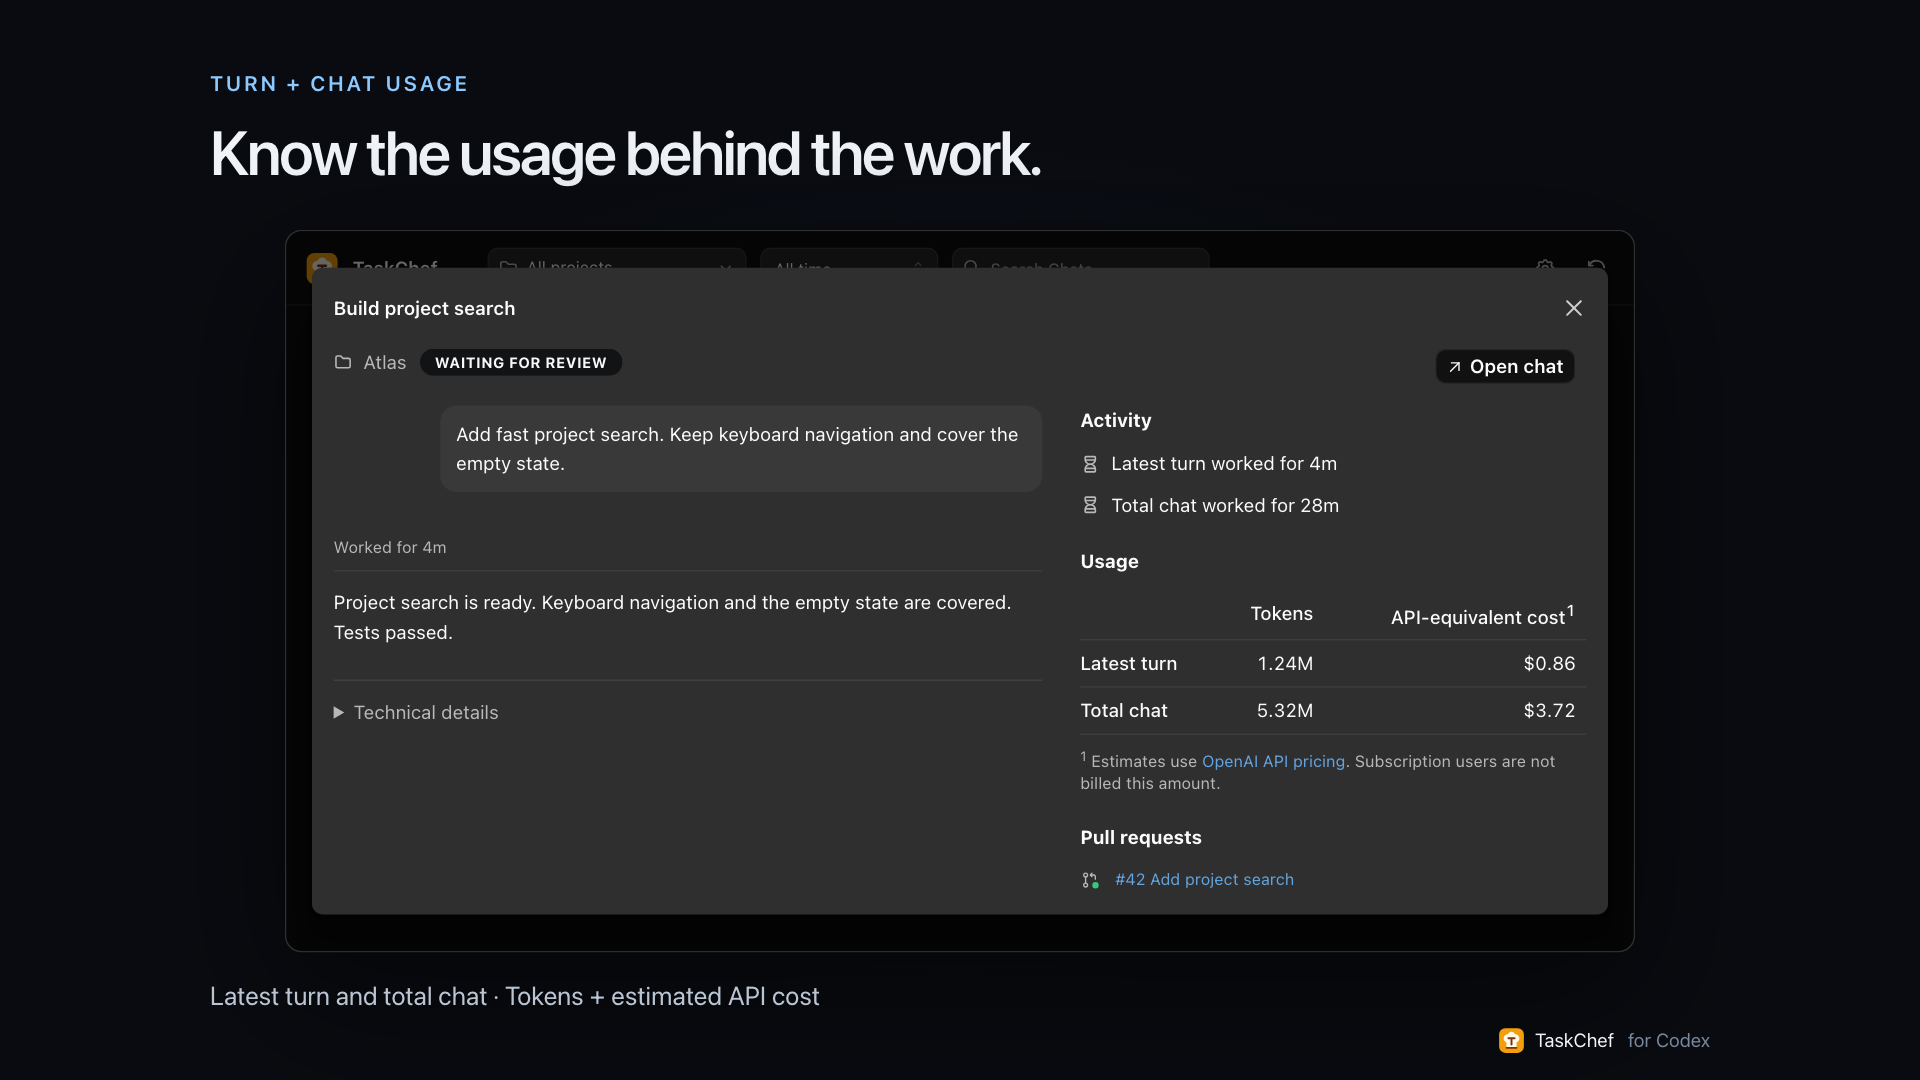
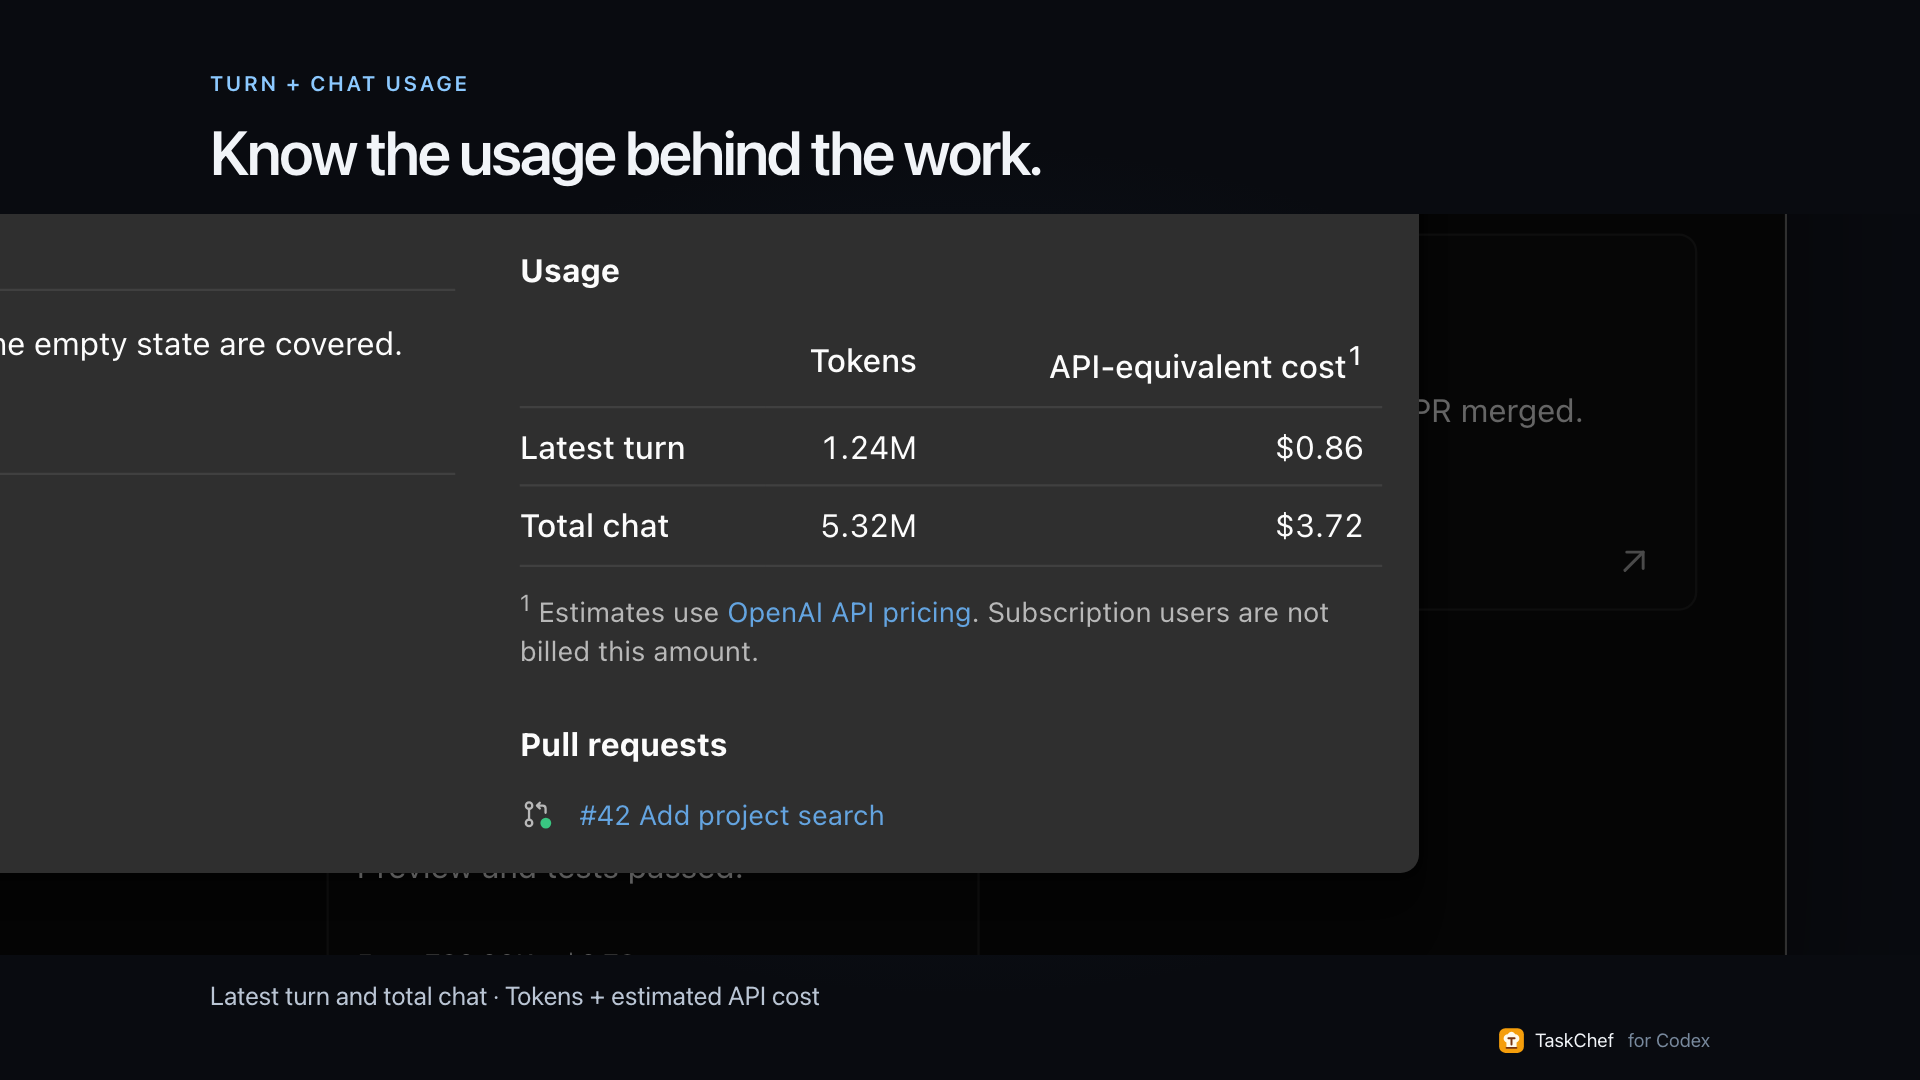
chore(video): add busy board and camera close-ups

diff --git a/video/demo.ts b/video/demo.ts
@@ -10,6 +10,7 @@ export const PROJECTS = [
   { value: 'studio', label: 'Studio' },
 ];
 export const LANES: { status: TaskStatus; label: string; emptyMessage: string }[] = [
+  { status: 'scheduled', label: 'Scheduled', emptyMessage: 'No scheduled chats' },
   { status: 'working', label: 'Running', emptyMessage: 'No chats running' },
   { status: 'needs_input', label: 'Waiting for review', emptyMessage: 'No chats waiting for review' },
   { status: 'completed', label: 'Done', emptyMessage: 'No completed chats' },
@@ -28,7 +29,9 @@ function chat(id: number, title: string, project: string, status: TaskStatus, pr
     createdAt: updatedAt, updatedAt, status, summary: response,
     lastResult: null, latestTurn: null,
     promptText: prompt, promptExcerpt: prompt, replyText: response, replyExcerpt: response,
-    inputSource: 'ordinary',
+    inputSource: status === 'scheduled' ? 'scheduled' : 'ordinary',
+    scheduled: status === 'scheduled',
+    nextRunAt: status === 'scheduled' ? new Date(DEMO_NOW + (id === 8 ? 4 : 1) * 24 * 60 * 60_000).toISOString() : null,
     observed: { archive: false, source: 'vscode', lastTurnEvent: status === 'working' ? 'inProgress' : 'completed', lastTurnEventAt: updatedAt, latestTurnDurationMs: 4 * 60_000, recordedChatDurationMs: 28 * 60_000, recentFileActivity: status === 'working' },
     turnUsage: latest, sessionUsage: { latest, total: usage(latest.tokens.total_tokens * 4, latest.costUsd * 4), subagents: 0, pricingDate: '2026-01-01' },
   };
@@ -44,8 +47,13 @@ export function demoTasks(phase: Phase, project = ''): Task[] {
   hero.detailPullRequests = hero.pullRequests;
   const tasks = [hero,
     chat(2, 'Improve checkout validation', 'beacon', 'working', 'Check the payment form and add clear validation for incomplete addresses.', 'Checkout validation is ready for review.'),
+    chat(3, 'Improve keyboard navigation', 'atlas', 'working', 'Add keyboard shortcuts for switching projects.', 'Project shortcuts are ready for review.'),
+    chat(4, 'Refine payment errors', 'beacon', 'needs_input', 'Make payment errors easier to resolve.', 'Payment errors now explain how to retry. Tests passed.'),
     chat(5, 'Update onboarding', 'studio', 'needs_input', 'Simplify the first project setup.', 'The new onboarding flow is ready. Preview and tests passed.'),
     chat(6, 'Fix notification layout', 'atlas', 'completed', 'Fix the notification layout on small screens.', 'Notification layout fixed. PR merged.'),
+    chat(7, 'Daily regression sweep', 'atlas', 'scheduled', 'Check the main flows each morning.', 'The last regression sweep passed. Next run is scheduled.'),
+    chat(8, 'Weekly dependency review', 'beacon', 'scheduled', 'Review dependency updates every Monday.', 'The dependency report is up to date. Next run is scheduled.'),
+    chat(9, 'Add export presets', 'studio', 'completed', 'Add portrait and landscape export presets.', 'Export presets added. PR merged.'),
   ];
   return project ? tasks.filter(task => task.project.id === project) : tasks;
 }

diff --git a/video/Frame.tsx b/video/Frame.tsx
@@ -29,19 +29,22 @@ export function FilmFrame({ eyebrow, title, children }: { eyebrow: string; title
   </AbsoluteFill>;
 }
 
-export function ProductBoard({ phase, project = '', moveProgress, children, style }: { phase: Phase; project?: string; moveProgress?: number; children?: ReactNode; style?: CSSProperties }) {
+export function ProductBoard({ phase, project = '', moveProgress, children, highlightProject = false }: { phase: Phase; project?: string; moveProgress?: number; children?: ReactNode; highlightProject?: boolean }) {
   const frame = useCurrentFrame();
   const tasks = demoTasks(phase, project);
   // Fix wall-clock labels and suppress the product's real-time FLIP animation.
   // The same destination card moves by a frame-driven transform in this film.
   const transform = moveProgress == null ? 'none' : `translate(${-312 * (1 - moveProgress)}px, ${-10 * Math.sin(Math.PI * moveProgress)}px)`;
-  return <div className="film-product" style={style}>
+  return <div className={`film-product${highlightProject ? " film-product-highlight-project" : ""}`}>
     <style>{`
       .film-product .taskchef-board-card { transform: none !important; }
       .film-product [data-chat-id="${HERO_ID}"] { transform: ${transform} !important; position: relative; z-index: 5; ${moveProgress != null && moveProgress < 1 ? 'box-shadow: 0 16px 35px #0008; border-color: #75b8ff;' : ''} }
-      ${moveProgress != null ? phase === 'review'
-        ? `.film-product [data-chat-id="00000000-0000-7000-8000-000000000002"] { transform: translateY(${176 * (1 - moveProgress)}px) !important; } .film-product [data-chat-id="00000000-0000-7000-8000-000000000005"] { transform: translateY(${-176 * (1 - moveProgress)}px) !important; }`
-        : `.film-product [data-chat-id="00000000-0000-7000-8000-000000000005"] { transform: translateY(${176 * (1 - moveProgress)}px) !important; } .film-product [data-chat-id="00000000-0000-7000-8000-000000000006"] { transform: translateY(${-176 * (1 - moveProgress)}px) !important; }` : ''}
+      ${moveProgress == null ? '' : tasks.filter(task => task.id !== HERO_ID).map(task => {
+        const offset = phase === 'review'
+          ? task.status === 'working' ? 176 : task.status === 'needs_input' ? -176 : 0
+          : task.status === 'needs_input' ? 176 : task.status === 'completed' ? -176 : 0;
+        return `.film-product [data-chat-id="${task.id}"] { transform: translateY(${offset * (1 - moveProgress)}px) !important; }`;
+      }).join('\n')}
       .film-product [aria-label^="Elapsed time"] .taskchef-time-label { font-size: 0; }
       .film-product [aria-label^="Elapsed time"] .taskchef-time-label::after { content: "4m"; font-size: 12px; }
       ${tasks.filter(task => task.status === 'working').map(task => `.film-product [data-chat-id="${task.id}"] .taskchef-card-turn-usage { font-size: 0; } .film-product [data-chat-id="${task.id}"] .taskchef-card-turn-usage::after { content: ${JSON.stringify(turnUsageLabel(task.turnUsage!))}; font-size: 12px; }`).join('\n')}

diff --git a/video/film.css b/video/film.css
@@ -4,8 +4,10 @@
 .film-heading { position: absolute; top: 67px; left: 210px; }
 .film-eyebrow { color: #8cc9ff; font-size: 21px; letter-spacing: 3px; font-weight: 600; }
 .film-heading h1 { margin: 16px 0 0; font-size: 62px; line-height: 1.15; letter-spacing: -2.4px; font-weight: 570; }
-.film-product { position: absolute; left: 210px; top: 252px; width: 1000px; height: 460px; transform: scale(1.5); transform-origin: top left; border: 1px solid #ffffff24; border-radius: 12px; background: var(--taskchef-page); box-shadow: 0 32px 100px #0008; isolation: isolate; color: var(--taskchef-text); color-scheme: dark; }
-.film-product .taskchef-app-shell { min-height: 460px; border-radius: 12px; }
+.film-camera-window { position: absolute; left: 0; top: 214px; width: 1920px; height: 741px; overflow: hidden; }
+.film-camera-stage { position: absolute; width: 1280px; height: 648px; transform-origin: top left; pointer-events: none; }
+.film-product { position: relative; width: 1280px; height: 648px; border: 1px solid #ffffff24; border-radius: 12px; background: var(--taskchef-page); box-shadow: 0 32px 100px #0008; isolation: isolate; color: var(--taskchef-text); color-scheme: dark; }
+.film-product .taskchef-app-shell { min-height: 646px; border-radius: 12px; }
 .film-product .taskchef-app-main { padding: 12px; }
 .film-product .taskchef-board { min-height: 374px; overflow: visible; }
 .film-product .taskchef-board-lane { cursor: default; }
@@ -23,7 +25,7 @@
 .film-signature { position: absolute; right: 210px; bottom: 25px; display: flex; align-items: center; gap: 10px; font-size: 19px; }
 .film-signature img { width: 27px; height: 27px; }
 .film-signature span { color: #78899d; margin-left: 4px; }
-.film-filter-ring { pointer-events: none; position: absolute; left: 431px; top: 267px; width: 292px; height: 50px; border: 2px solid #8cc9ff; border-radius: 8px; box-shadow: 0 0 24px #75b8ff30; }
+.film-product-highlight-project .next-project-trigger { outline: 2px solid #8cc9ff; outline-offset: 2px; box-shadow: 0 0 24px #75b8ff30; }
 .film-closing { text-align: center; display: flex; justify-content: center; align-items: center; }
 .film-closing img { height: 96px; width: 96px; }
 .film-closing h1 { font-size: 102px; letter-spacing: -5px; font-weight: 550; margin: 24px 0; }

diff --git a/video/Usage.tsx b/video/Usage.tsx
@@ -1,13 +1,20 @@
 import { NextTaskDetail } from '../src/mcp-app/react/NextTaskDetail';
 import { FilmFrame, ProductBoard } from './Frame';
+import { BoardCamera } from './Camera';
 import { demoTasks } from './demo';
 const noop = () => {};
 export function Usage() {
   return <FilmFrame eyebrow="TURN + CHAT USAGE" title="Know the usage behind the work.">
-    <ProductBoard phase="review" style={{ left: 285, top: 230, height: 535, transform: "scale(1.35)" }}>
-      <style>{`.film-product .mantine-Modal-content { max-height: 505px; }`}</style>
-      <NextTaskDetail task={demoTasks('review')[0]} opened busy={false} error={null} onClose={noop} onOpenCodex={noop} />
-    </ProductBoard>
+    <BoardCamera poses={[
+      { at: 0, x: 230, y: 0, scale: 1.14 }, { at: 1.3, x: 230, y: 0, scale: 1.14 },
+      { at: 2.6, x: -1157, y: -636, scale: 2.3 }, { at: 7.2, x: -1157, y: -636, scale: 2.3 },
+      { at: 8.7, x: 230, y: 0, scale: 1.14 },
+    ]}>
+      <ProductBoard phase="review">
+        <style>{`.film-product .mantine-Modal-content { max-height: 505px; }`}</style>
+        <NextTaskDetail task={demoTasks('review')[0]} opened busy={false} error={null} onClose={noop} onOpenCodex={noop} />
+      </ProductBoard>
+    </BoardCamera>
     <div className="film-bottom-line">Latest turn and total chat · Tokens + estimated API cost</div>
   </FilmFrame>;
 }

diff --git a/video/Review.tsx b/video/Review.tsx
@@ -1,12 +1,17 @@
 import { Easing, interpolate, useCurrentFrame, useVideoConfig } from 'remotion';
 import { FilmFrame, ProductBoard } from './Frame';
+import { BoardCamera } from './Camera';
 export function Review() {
   const frame = useCurrentFrame();
   const { fps } = useVideoConfig();
   const finished = frame >= 5 * fps;
   const progress = interpolate(frame, [5 * fps, 6 * fps], [0, 1], { extrapolateLeft: 'clamp', extrapolateRight: 'clamp', easing: Easing.bezier(.22, 1, .36, 1) });
   return <FilmFrame eyebrow="FROM RUNNING TO REVIEW" title={finished ? 'Ready for your review.' : 'See what is running.'}>
-    <ProductBoard phase={finished ? 'review' : 'running'} moveProgress={finished ? progress : undefined} />
+    <BoardCamera poses={[
+      { at: 0, x: 230, y: 0, scale: 1.14 }, { at: 1, x: 230, y: 0, scale: 1.14 },
+      { at: 2.5, x: -575, y: -140, scale: 2.4 }, { at: 7.5, x: -575, y: -140, scale: 2.4 },
+      { at: 9, x: 230, y: 0, scale: 1.14 },
+    ]}><ProductBoard phase={finished ? 'review' : 'running'} moveProgress={finished ? progress : undefined} /></BoardCamera>
     <div className="film-bottom-line">{finished ? 'Run finished → Waiting for review' : 'Your Codex chats, across projects.'}</div>
   </FilmFrame>;
 }

diff --git a/video/Merge.tsx b/video/Merge.tsx
@@ -1,12 +1,17 @@
 import { Easing, interpolate, useCurrentFrame, useVideoConfig } from 'remotion';
 import { FilmFrame, ProductBoard } from './Frame';
+import { BoardCamera } from './Camera';
 export function Merge() {
   const frame = useCurrentFrame();
   const { fps } = useVideoConfig();
   const merged = frame >= 3 * fps;
   const progress = interpolate(frame, [3 * fps, 4 * fps], [0, 1], { extrapolateLeft: 'clamp', extrapolateRight: 'clamp', easing: Easing.bezier(.22, 1, .36, 1) });
   return <FilmFrame eyebrow="PR MERGED" title={merged ? 'Merged. Moved to Done.' : 'Review it. Merge it.'}>
-    <ProductBoard phase={merged ? 'merged' : 'review'} moveProgress={merged ? progress : undefined} />
+    <BoardCamera poses={[
+      { at: 0, x: 230, y: 0, scale: 1.14 }, { at: .8, x: 230, y: 0, scale: 1.14 },
+      { at: 1.8, x: -1325, y: -140, scale: 2.4 }, { at: 6, x: -1325, y: -140, scale: 2.4 },
+      { at: 7.2, x: 230, y: 0, scale: 1.14 },
+    ]}><ProductBoard phase={merged ? 'merged' : 'review'} moveProgress={merged ? progress : undefined} /></BoardCamera>
     <div className="film-bottom-line">{merged ? 'Latest turn PR merged → Done' : 'Build project search · PR #42 · Checks passed'}</div>
   </FilmFrame>;
 }

diff --git a/video/Focus.tsx b/video/Focus.tsx
@@ -1,12 +1,16 @@
 import { useCurrentFrame, useVideoConfig } from 'remotion';
 import { FilmFrame, ProductBoard } from './Frame';
+import { BoardCamera } from './Camera';
 export function Focus() {
   const frame = useCurrentFrame();
   const { fps } = useVideoConfig();
   const focused = frame >= 2 * fps;
   return <FilmFrame eyebrow="PROJECT FILTERING" title="One project. Your full attention.">
-    <ProductBoard phase="merged" project={focused ? 'atlas' : ''} />
-    <div className="film-filter-ring" style={{ opacity: frame >= fps && frame < 3 * fps ? 1 : 0 }} />
+    <BoardCamera poses={[
+      { at: 0, x: 230, y: 0, scale: 1.14 }, { at: .6, x: 230, y: 0, scale: 1.14 },
+      { at: 1.4, x: 3, y: 0, scale: 2.8 }, { at: 2.7, x: 3, y: 0, scale: 2.8 },
+      { at: 4, x: 230, y: 0, scale: 1.14 },
+    ]}><ProductBoard phase="merged" project={focused ? 'atlas' : ''} highlightProject={frame >= fps && frame < 3 * fps} /></BoardCamera>
     <div className="film-bottom-line">{focused ? 'Atlas · Only the chats for this project.' : 'Choose the project you want to focus on.'}</div>
   </FilmFrame>;
 }

diff --git a/video/Opening.tsx b/video/Opening.tsx
@@ -1,10 +1,13 @@
 import { interpolate, useCurrentFrame, useVideoConfig } from 'remotion';
 import { FilmFrame, ProductBoard } from './Frame';
+import { BoardCamera } from './Camera';
 export function Opening() {
   const frame = useCurrentFrame();
   const { fps } = useVideoConfig();
   return <FilmFrame eyebrow="PARALLEL AI WORK" title="More projects. More moving parts.">
-    <div style={{ opacity: interpolate(frame, [.5 * fps, 1.4 * fps], [0, 1], { extrapolateLeft: 'clamp', extrapolateRight: 'clamp' }), translate: `0 ${interpolate(frame, [0, 1.4 * fps], [40, 0], { extrapolateRight: 'clamp' })}px` }}><ProductBoard phase="running" /></div>
+    <BoardCamera poses={[{ at: 0, x: 282, y: 24, scale: 1.06 }, { at: 1.8, x: 230, y: 0, scale: 1.14 }]}>
+      <div style={{ opacity: interpolate(frame, [.3 * fps, 1.2 * fps], [0, 1], { extrapolateLeft: 'clamp', extrapolateRight: 'clamp' }) }}><ProductBoard phase="running" /></div>
+    </BoardCamera>
     <div className="film-bottom-line">Keep parallel AI work in view.</div>
   </FilmFrame>;
 }

diff --git a/video/Camera.tsx b/video/Camera.tsx
@@ -1,0 +1,17 @@
+import type { ReactNode } from 'react';
+import { Easing, interpolate, useCurrentFrame, useVideoConfig } from 'remotion';
+
+type Pose = { at: number; x: number; y: number; scale: number };
+export function BoardCamera({ poses, children }: { poses: Pose[]; children: ReactNode }) {
+  const frame = useCurrentFrame();
+  const { fps } = useVideoConfig();
+  const times = poses.map(pose => pose.at * fps);
+  const options = { extrapolateLeft: 'clamp', extrapolateRight: 'clamp', easing: Easing.bezier(.4, 0, .2, 1) } as const;
+  return <div className="film-camera-window">
+    <div className="film-camera-stage" inert style={{
+      left: interpolate(frame, times, poses.map(pose => pose.x), options),
+      top: interpolate(frame, times, poses.map(pose => pose.y), options),
+      transform: `scale(${interpolate(frame, times, poses.map(pose => pose.scale), options)})`,
+    }}>{children}</div>
+  </div>;
+}

diff --git a/docs/launch/video-script.md b/docs/launch/video-script.md
@@ -9,13 +9,13 @@ styles, and Codex dark palette. All chats, projects, usage, and PRs are syntheti
 
 | Time | Narration | Picture and on-screen text |
 | --- | --- | --- |
-| 00–06 | AI lets you work on several projects at once. Keeping track gets harder. | The actual board fades in with chats from Atlas, Beacon, and Studio. **More projects. More moving parts.** |
-| 06–11 | TaskChef puts your Codex chats on one board. | Hold the three columns: Running, Waiting for review, Done. **See what is running.** The main chat is “Build project search” in Running. |
-| 11–17 | When a run finishes, its card moves to Waiting for review. | Animate the same card across the board. Its prompt becomes its result. Neighboring cards make room. **Ready for your review.** |
-| 17–27 | Check tokens and estimated API cost for the latest turn—and the whole chat. | Open the real Details popup. Hold the Usage table: Latest turn **1.24M · $0.86**; Total chat **5.32M · $3.72**. Keep the API estimate footnote visible. **Know the usage behind the work.** |
-| 27–30 | Review it. Merge it. | Back to the board. The main card is in Waiting for review. Latest turn PR #42 is open, with passing checks. |
-| 30–35 | Merge the pull request. Watch the card move to Done. | The PR glyph changes to merged. Animate the same card into Done. **Merged. Moved to Done.** |
-| 35–41 | Filter by project when you need to focus. | Highlight the real project picker. Change All projects to Atlas. Other projects disappear; Atlas's Done cards remain. **One project. Your full attention.** |
+| 00–06 | AI lets you work on several projects at once. Keeping track gets harder. | The actual four-column board fades in with nine fully visible chats from Atlas, Beacon, and Studio. Scheduled stays on the left. **More projects. More moving parts.** |
+| 06–11 | TaskChef keeps scheduled runs and Codex chats on one board. | Start wide on Scheduled, Running, Waiting for review, Done. Push into Running and Waiting for review. **See what is running.** The main chat is “Build project search” in Running. |
+| 11–17 | When a run finishes, its card moves to Waiting for review. | Animate the same card across the board. Its prompt becomes its result. Neighboring cards make room. Pull back to the nine-chat board. **Ready for your review.** |
+| 17–27 | Check tokens and estimated API cost for the latest turn—and the whole chat. | Open the real Details popup. Zoom into the Usage table: Latest turn **1.24M · $0.86**; Total chat **5.32M · $3.72**. Keep the API estimate footnote visible, then pull back to the popup. **Know the usage behind the work.** |
+| 27–30 | Review it. Merge it. | Start wide, then zoom into Waiting for review and Done. The main card is in Waiting for review. Latest turn PR #42 is open, with passing checks. |
+| 30–35 | Merge the pull request. Watch the card move to Done. | The PR glyph changes to merged. Animate the same card into Done, then pull back to the full board. **Merged. Moved to Done.** |
+| 35–41 | Filter by project when you need to focus. | Zoom into and highlight the real project picker. Change All projects to Atlas. Other projects disappear. Pull back to Atlas's scheduled, running, and done chats. **One project. Your full attention.** |
 | 41–45 | TaskChef. Keep parallel AI work in view. | Product mark, TaskChef, positioning line, **taskchef.dev**. |
 
 The end card uses the intended new home, `taskchef.dev`. The website is still
@@ -48,12 +48,20 @@ Frame 330 starts Running → Waiting for review; frame 900 starts
 Waiting for review → Done. Each move lasts 30 frames.
 
 Remotion has a separate, locked development package in `video/`. This avoids
-changing the plugin's dependencies. The source is in `video/`. It imports `TaskBoard`, `ProjectPicker`,
+changing the plugin's dependencies. The source is in `video/`. It imports
+`TaskBoard`, `ProjectPicker`,
 `NextTaskDetail`, their providers, the product mark, and the production CSS.
 The header uses the same Mantine controls as the native app. The host bridge is
 not mounted; the film makes no MCP or GitHub requests.
 
-The film uses a fixed three-column viewport. Card dimensions, frame-driven
+The film uses a fixed four-column viewport (1280 × 648 UI pixels). Its overview
+fits all nine chats, including the third card row. Frame-driven camera poses
+push from the 1.14× overview into 2.4× card pairs, the 2.3× usage table, and the
+2.8× project picker, then pull back between features. The viewport masks the
+close-ups so they do not cover the headline or footer. Product controls are
+noninteractive within the film; use the Studio playback controls.
+
+Card dimensions, frame-driven
 transforms, and synthetic clock/usage labels keep playback and scrubbing
 repeatable. These overrides apply only inside `.film-product`. The product's
 280 ms live animation is slowed to one second in the film so the move is easy
@@ -69,3 +77,9 @@ Output: `video/out/taskchef-launch.mp4` (ignored by Git and excluded from the
 published plugin). Remotion may download its render browser on the first export.
 Review Remotion's current [license terms](https://www.remotion.dev/docs/license)
 before commercial distribution if the producer's eligibility changes.
+
+## Visual reference
+
+The [Strata launch video](https://x.com/l0gicgate/status/2109739837435814207)
+informed the alternation between overview and enlarged feature shots. TaskChef
+keeps its own UI and its own story. No footage or assets are copied from it.
